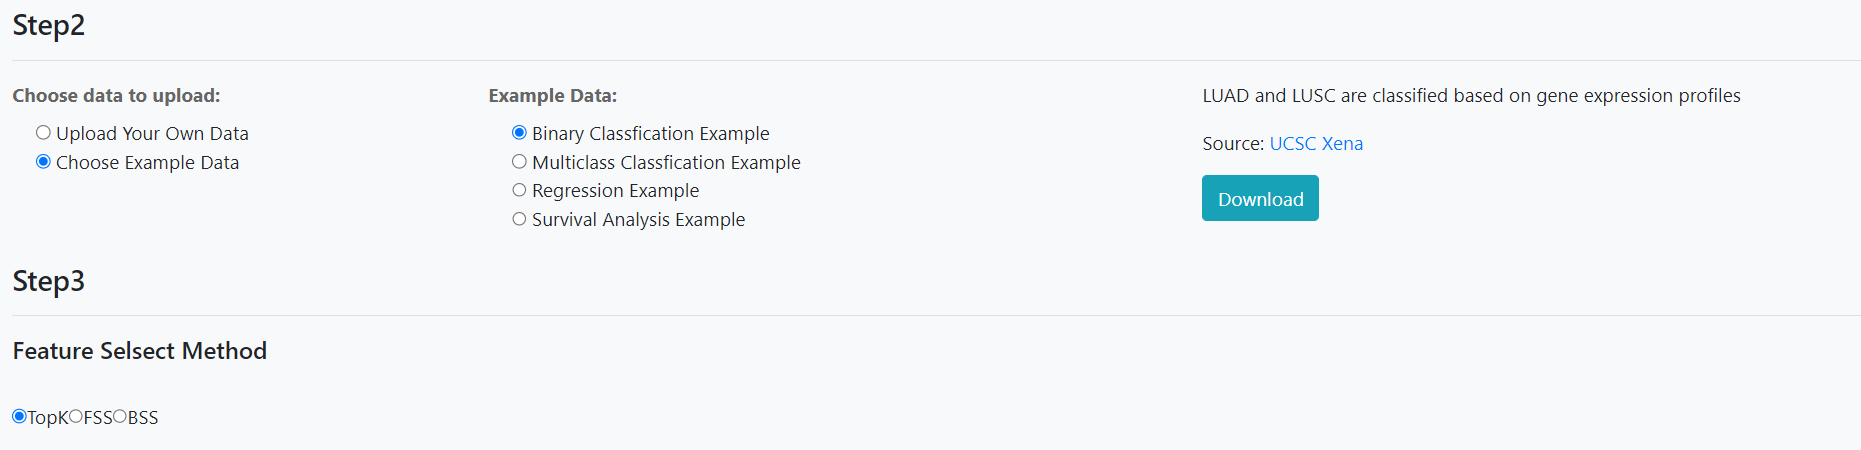
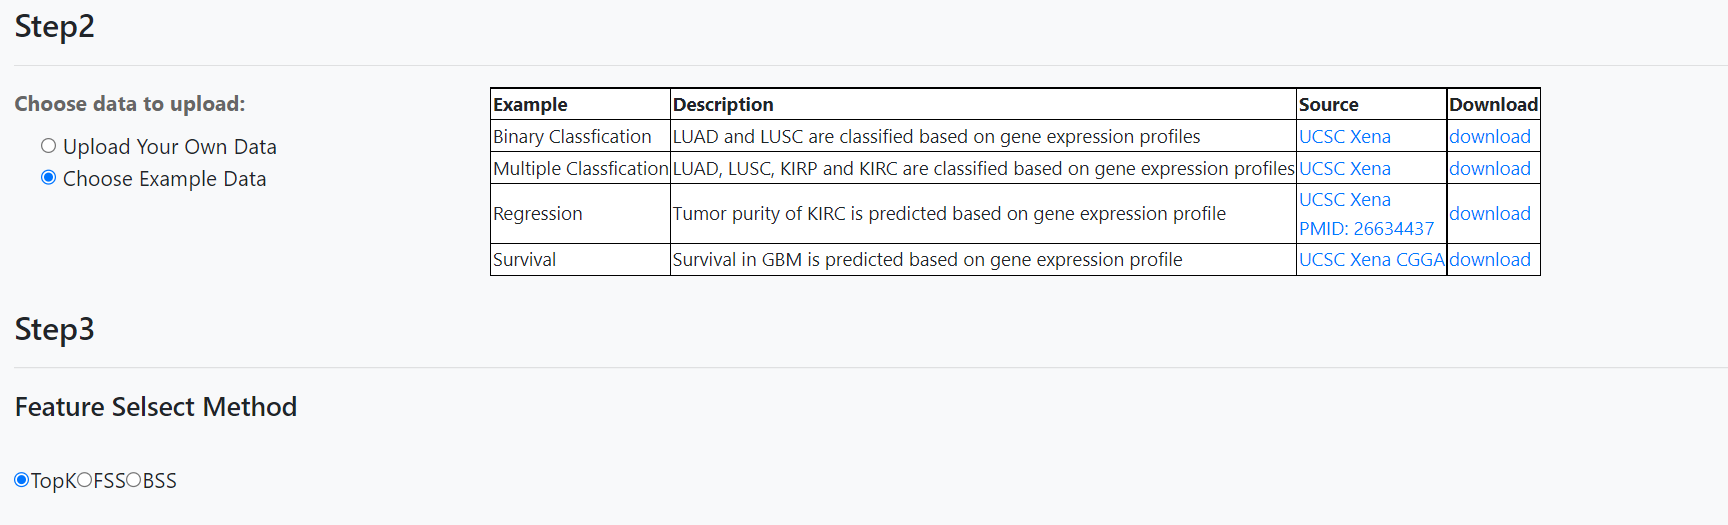
nav ana help home pred

diff --git a/mlserver/templates/help.html b/mlserver/templates/help.html
@@ -40,7 +40,7 @@
 			<nav class="nav nav-pills nav-stacked" style="position:fixed" id="help_spy_scroll">
 				<ul data-spy="affix" data-offset-top="0">
 					<li><a href="#top">Top</a></li>
-					<!-- <li><a href="#os_compat">Browser and OS Compatibility</a></li> -->
+					<li><a href="#os_compat">Browser and OS Compatibility</a></li>
 					<li><a href="#gen">Machine Learning Analysis</a></li>
 					<li><a href="#oc">&nbsp; &nbsp; Binary Classification</a></li>
 					<li><a href="#od">&nbsp; &nbsp; Multiclass Classification</a></li>
@@ -101,8 +101,94 @@
 					</tr>
 				</table>
 				<br>
-			<!-- <h3 id='os_compat'>Browser and Operating System (OS) Compatibility</h3> -->
+			<h3 id='os_compat'>Browser and Operating System (OS) Compatibility</h3>
 				<hr>
+				<nav class="navbar navbar-dark text-white bg-info" style="border-radius: 10px 10px 0px 0px;font-weight: bolder;">
+				What can MALER do?
+				</nav>
+				<div class="row no-gutters" style="border: 1px solid #ababab; border-radius: unset; margin-bottom: 1em;">
+					<div class="col-12" >
+					                        <div class="row no-gutters" >
+					                            <div class="col-4 card-header">Four Analysis Modes</div>
+					                            <div class="col-4 card-header">Feature Selection methods and Optimal Feature Subset Methods</div>
+												<div class="col-4 card-header">One-click Analysis</div>
+					                        </div>
+					                        <div class="row col-12">
+					
+					                        <div class="col-4">
+					                        <p class="card-text" style="text-align:center">
+												binary classification, multiple classification, regression, survival
+												<div><img src='/mlserver_static/img/mlstep1.png' width="300" height="200"></div>
+					                        </p>
+					                        <br>
+					                        <br>
+					<!--                        <img class="card-img-right" style="width: 100%;" src="/organoidb_static/img/help_img/general_home.PNG" alt="general overview img">-->
+					                        </div>
+					
+					                        <div class="col-4">
+					                            <p class="card-text" style="text-align:center">
+													TopK, FSS(SFS), BSS
+													<br></br>
+													<p ><img src='/mlserver_static/img/home2.png' width="320" height="180"></p>
+												</p>
+					<!--							<img class="card-img-right" style="width: 100%;" src="/organoidb_static/img/help_img/org_spec_home.PNG" alt="organoid specificity img">-->
+					                        </div>
+											<div class="col-4">
+												<p class="card-text" style="text-align:center">
+													run multiple models within the same process
+													<p ><img src='/mlserver_static/img/home3.png' width="320" height="260"></p>
+													<!-- <p ><img src='/mlserver_static/img/home3.png' width="320" height="120"></p> -->
+					
+												</p>
+					<!--							<img class="card-img-right" style="width: 100%;" src="/organoidb_static/img/help_img/org_spec_home.PNG" alt="organoid specificity img">-->
+					                        </div>
+					                        </div>
+					                        <div class="row no-gutters">
+					                            <div class="col-4 card-header">Custom Parameters Analysis</div>
+												<div class="col-4 card-header">Build and Download ML Models</div>
+												<div class="col-4 card-header">Make Predictions</div>
+					                        </div>
+					                        <div class="row col-12">
+					                             <div class="col-4">
+					                            <p class="card-text" style="text-align:center">
+													custom parameters analysis
+													<!-- <br></br> -->
+													<p ><img src='/mlserver_static/img/home4.png' width="320" height="240"></p>
+												</p>
+					                            <br>
+					<!--							<img class="card-img-right" style="width: 100%;" src="/organoidb_static/img/help_img/org_dev_home.PNG" alt="general overview img">-->
+					
+					                        </div>
+					                        <div class="col-4">
+					                            <p class="card-text" style="text-align:center">
+													download ml models after analysis and training with step by step guidance
+													<p ><img src='/mlserver_static/img/home5.png' width="320" height="150"></p>
+													
+												</p>
+					                            <br>
+					                            <br>
+					                            <br>
+					<!--							<img class="card-img-right" style="width: 100%;" src="/organoidb_static/img/help_img/corr_home.PNG" alt="organoid specificity img">-->
+					
+					                        </div>
+											<div class="col-4">
+					                            <p class="card-text" style="text-align:center">
+													<!-- make predictions -->
+													download the model to predict external dataset
+													
+													<p ><img src='/mlserver_static/img/home6.png' width="320" height="200"></p>
+												</p>
+					                            <br>
+					                            <br>
+					                            <br>
+					<!--							<img class="card-img-right" style="width: 100%;" src="/organoidb_static/img/help_img/corr_home.PNG" alt="organoid specificity img">-->
+					
+					                        </div>
+					                        </div>
+					
+					
+					                    </div>
+				</div>
                 <br>
                 <br>
 			<h3 id='gen'>Machine Learning Analysis</h3>

diff --git a/mlserver/templates/public_templates/nav_tem.html b/mlserver/templates/public_templates/nav_tem.html
@@ -22,7 +22,7 @@
 
 	<div class="container">
 		<a class="navbar-brand" href="http://www.inbirg.com/pertorg/" target="view_window">
-			<img src="/mlserver_static/img/pertorg_logo5.png" alt="logo" style="width:70px;">
+			<!-- <img src="/mlserver_static/img/pertorg_logo5.png" alt="logo" style="width:70px;"> -->
 		</a>
 		<button class="navbar-toggler navbar-toggler-right" type="button" data-toggle="collapse" data-target="#navbarResponsive"
 		 aria-controls="navbarResponsive" aria-expanded="false" aria-label="Toggle navigation">
@@ -33,7 +33,7 @@
 
 			<ul class="navbar-nav ">
 				<li class="nav-item">
-					<a id="nav_home" class="nav-link js-scroll-trigger" href="/maler/home">HOME</a>
+					<a id="nav_home" class="nav-link js-scroll-trigger" href="/mlserver/home">HOME</a>
 				</li>
 <!-- 				<li class="nav-item">
 					<a id="nav_search" class="nav-link js-scroll-trigger" href="/pertorg/adv_search">SEARCH</a>
@@ -42,14 +42,14 @@
 					<a id="nav_browse" class="nav-link js-scroll-trigger" href="/pertorg/browse">BROWSE</a>
 				</li> -->
 				<li class="nav-item">
-					<a id="nav_tools" class="nav-link js-scroll-trigger" href="/maler/analysis">ANALYSIS</a>
+					<a id="nav_tools" class="nav-link js-scroll-trigger" href="/mlserver/analysis">ANALYSIS</a>
 					<!-- <div class="bg-dark dropdown-menu">
 				<a class="dropdown-item" style="color: white;" href="/ddpd/analysis/druglike">One Drug Feature Test</a>
 				<a class="dropdown-item" style="color: white;" href="/ddpd/analysis/druglike_analysis">One Class Drug Feature Test</a>
 			</div> -->
 				</li>
 				<li class="nav-item">
-					<a id="nav_predict" class="nav-link js-scroll-trigger" href="/maler/predict">PREDICT</a>
+					<a id="nav_predict" class="nav-link js-scroll-trigger" href="/mlserver/predict">PREDICT</a>
 				</li>
 				<!-- <li class="nav-item dropdown">
 			<a id="nav_statistic" class="nav-link dropdown-toggle" data-toggle="dropdown" >STATISTIC</a>
@@ -65,7 +65,7 @@
 					<a id="nav_submit" class="nav-link js-scroll-trigger" href="/pertorg/submit">SUBMIT</a>
 				</li> -->
 				<li class="nav-item">
-					<a id="nav_help" class="nav-link js-scroll-trigger" href="/maler/help">HELP</a>
+					<a id="nav_help" class="nav-link js-scroll-trigger" href="/mlserver/help">HELP</a>
 				</li>
 
 			</ul>
@@ -82,7 +82,7 @@
  	.navbar-dark .navbar-nav .nav-link.active{color: #555555;}
 	
 	#quanju_nav{font-weight: bolder;}
-	#quanju_nav ul li a{font-size: 20px;}
+	#quanju_nav ul li a{font-size: 25px;}
 	#quanju_nav .navbar-toggler {
 	  padding: 0.75rem;
 	  font-family: "Montserrat", -apple-system, BlinkMacSystemFont, "Segoe UI", Roboto, "Helvetica Neue", Arial, sans-serif, "Apple Color Emoji", "Segoe UI Emoji", "Segoe UI Symbol", "Noto Color Emoji";

diff --git a/mlserver/templates/home.html b/mlserver/templates/home.html
@@ -124,6 +124,8 @@
 					</nav>
 					<div class="card mb-3" style="border-radius: unset;border: 1px solid #ababab;padding-bottom: 70px">
 					<div class="card-body" >
+						<div style="float:left">MALER 1.0 was released.</div>
+						<div style="float:right">[2022-09-18]</div>
 					<table id='news_table'>
 						<tbody>
 <!--							<tr><td>Updated based on NAR reviewers' feedback.</td><td class="right-align">[2022-09-24]</td></tr>-->
@@ -230,9 +232,10 @@
 	</div>
     <div class='container'>
         <div class="database-description">
-            <p><em>To get a better experience with this site, <b>Chrome</b>,<b>Firefox</b> are
-                advised!</em></p>
+            <p><em>To get a better experience with this site, <b>Chrome</b>,<b>Firefox</b> are advised!<em></p>
+			<p><em>This website is free and open to all users and there is no login requirement.<em></p>
         </div>
+		
     </div>
 
     <div class='container'>

diff --git a/mlserver/templates/predict.html b/mlserver/templates/predict.html
@@ -157,6 +157,10 @@
 					</div> -->
 				</form>
 			</div>
+			<p></p>
+			<p><b> Model: </b> Please upload the pickle file model downloaded from ML Analysis </p>
+			<p><b> File: </b>  Please upload a csv file with features in rows and sample in columns and no larger than 200MB.</p>
+			
 			<hr />
 			<button type="button" id="button_submit" onclick="form_sub()" class="btn btn-info" style="width: 100%;">Submit</button>
 			

diff --git a/mlserver/templates/analysis.html b/mlserver/templates/analysis.html
@@ -267,6 +267,8 @@
 						</div>
 					</div>
 				</div>
+				<p><b> File: </b>  Please upload a csv file with features in rows and sample in columns and no larger than 200MB. Please refer to the sample file for the exact format of the file.</p>
+				<p><b> ProjectID: </b>  A unique identifier for each task, which can be used to access the results of analyzed tasks.</p>
 				
 				
 				<br />
